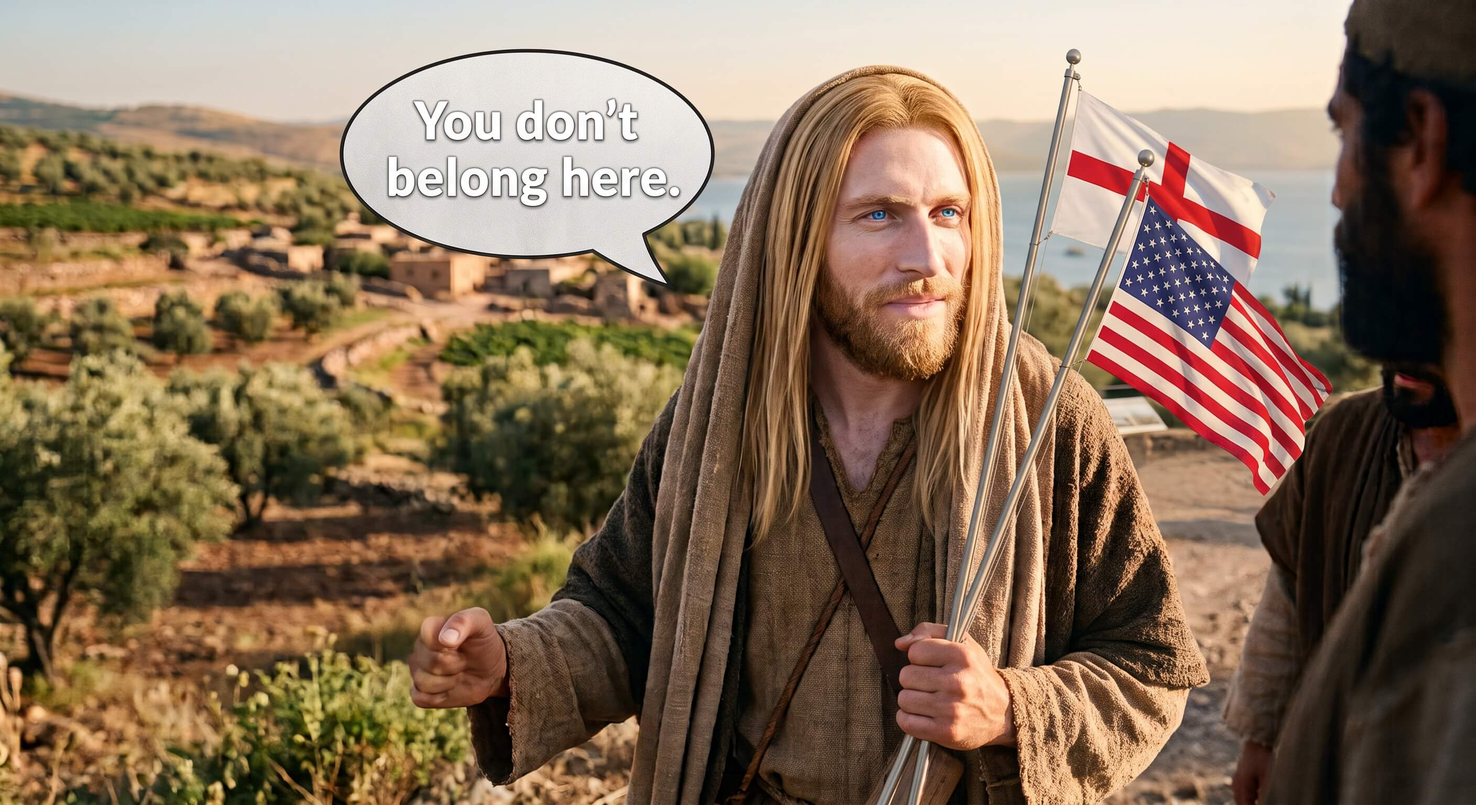
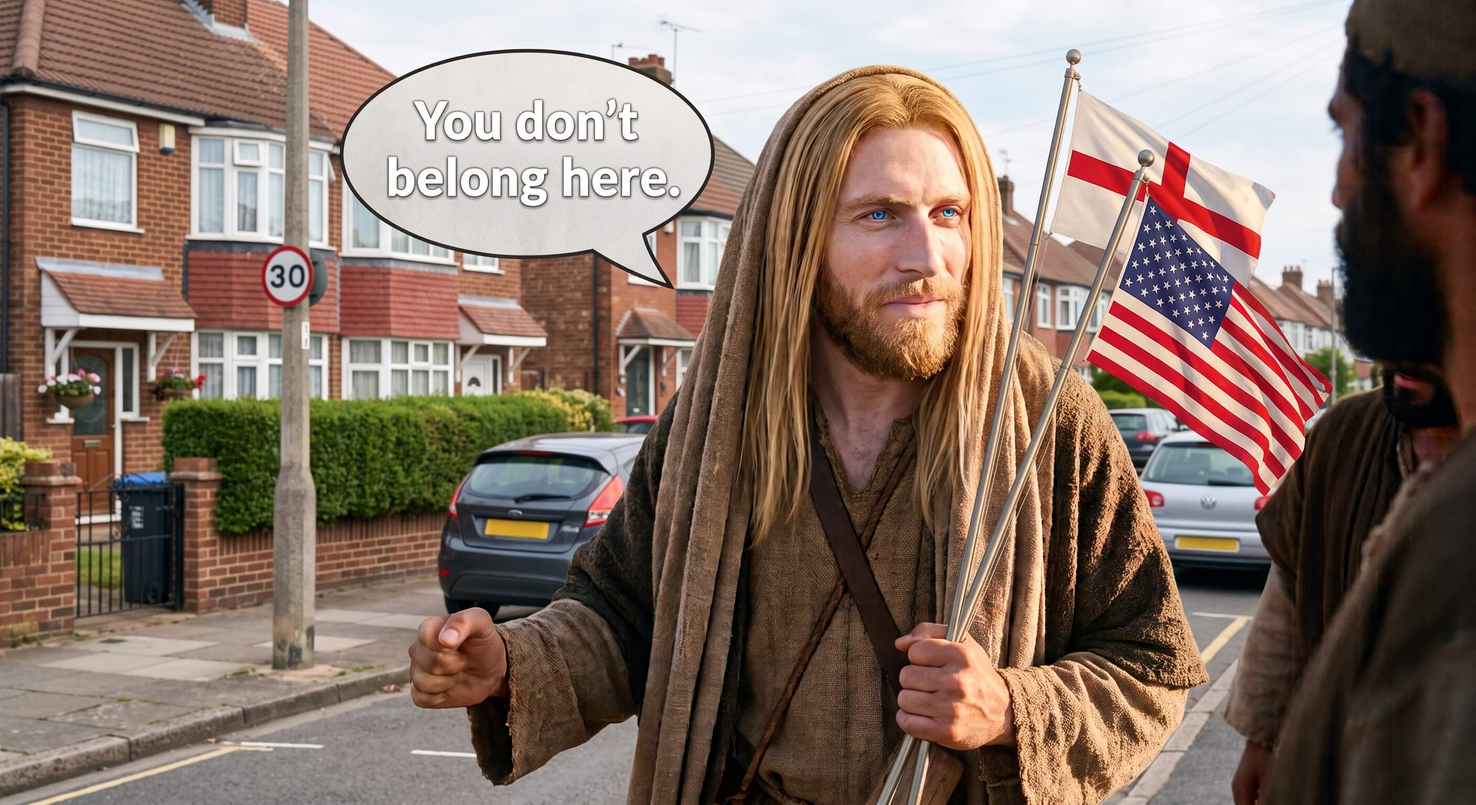
initial set up

diff --git a/style.css b/style.css
@@ -44,6 +44,7 @@ header h1 {
     border-radius: 8px;
     box-shadow: 0 4px 6px rgba(0,0,0,0.1);
     transition: transform 0.3s ease;
+    display: block
 }
 
 /* Adds a cool hover effect */
@@ -52,7 +53,9 @@ header h1 {
 }
 
 .image-container {
-    text-align: center;
+    display: flex;
+    flex-direction: column; /* Forces the image and text to stack vertically */
+    align-items: center; /* Centers both the image and the text */
     margin-bottom: 20px;
 }
 
